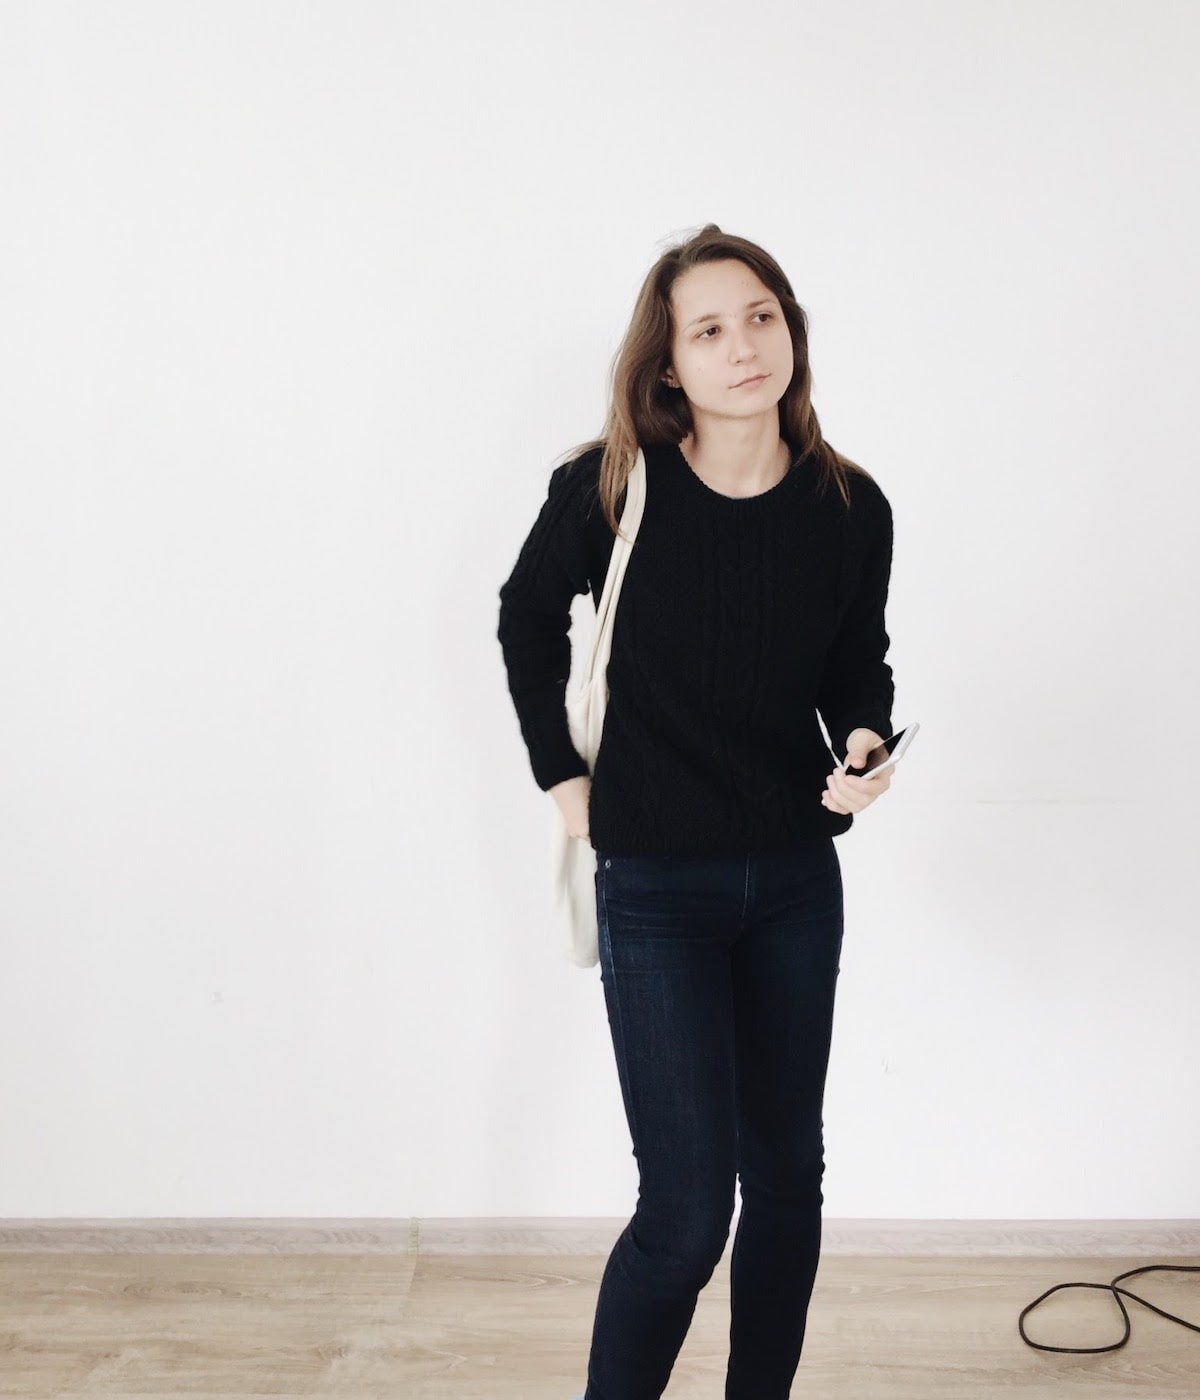
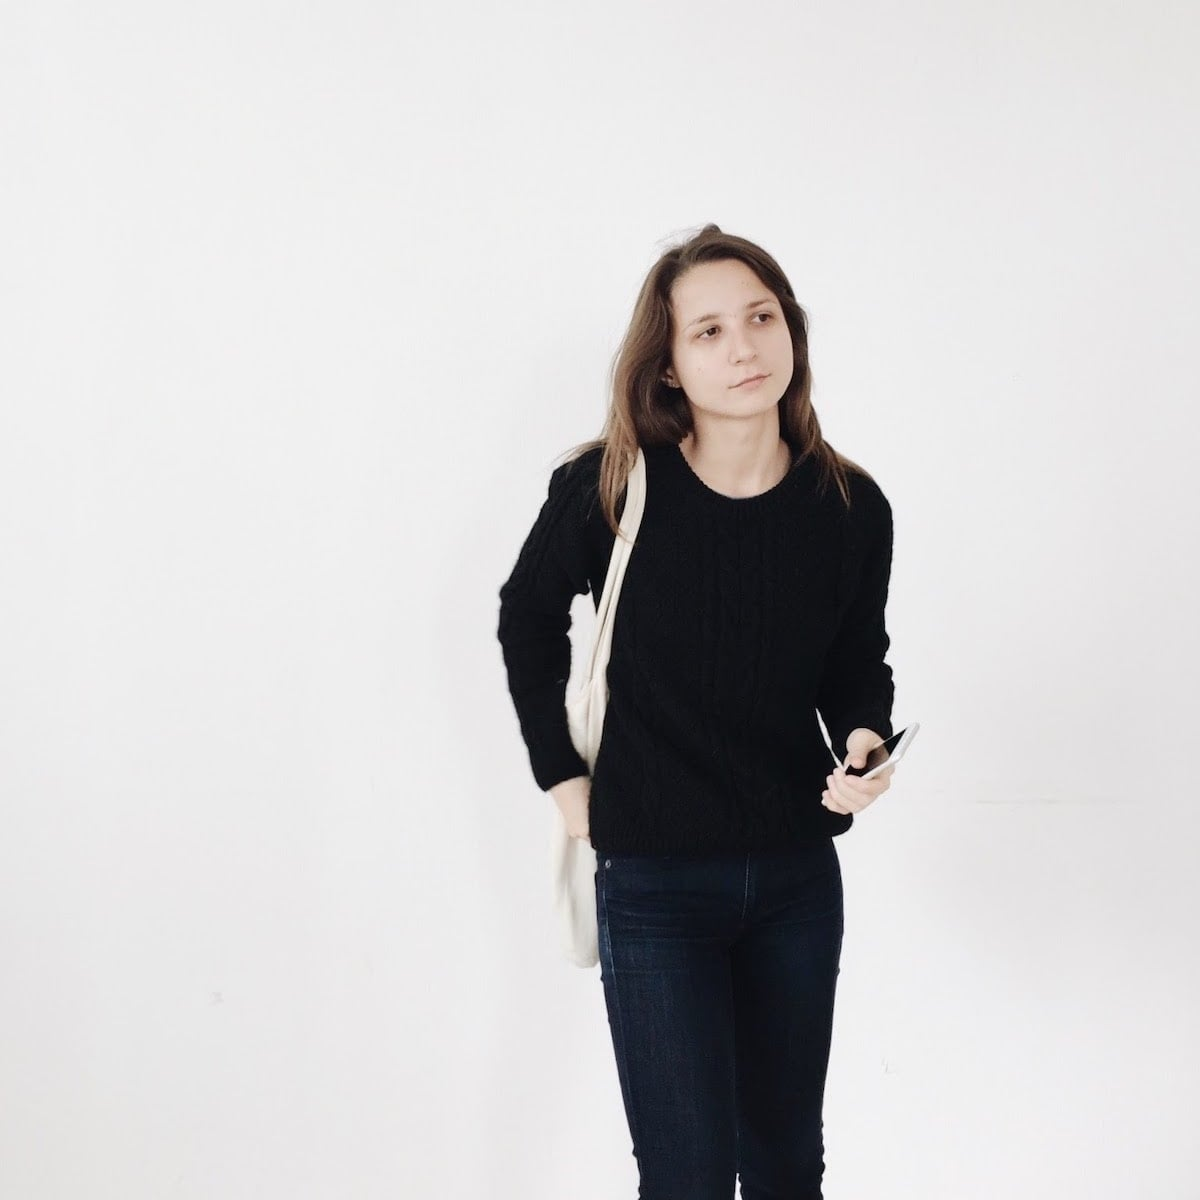
Responsive Image

Changed region(s): [[0.0, 0.1542, 0.7708, 1.0], [0.6475, 0.4317, 1.0, 1.0]]

diff --git a/index.html b/index.html
@@ -11,10 +11,6 @@
 </head>
 <body>
 
-  <div class="bg">
-    <img src="public/back.jpg" alt="">
-  </div>
-
   <p class="column">
   Ксения Ильиных<br>
   Продуктовый дизайнер<br><br>
@@ -22,14 +18,10 @@
 
   Умею разбираться в&nbsp;сложных вещах и&nbsp;объяснять их простым языком. Работаю <a href="https://kontur.ru/" target="_blank">в&nbsp;Контуре</a> и&nbsp;помогаю делать продукты красивыми и&nbsp;удобными.
   <br><br>
-  Люблю делать полезные штуки: <br>
-  — &laquo;<a href="https://medium.com/designkontur/%D0%BC%D0%B5%D1%81%D1%8F%D1%86-%D0%BE%D1%81%D0%BE%D0%B7%D0%BD%D0%B0%D0%BD%D0%BD%D0%BE%D1%81%D1%82%D0%B8-2f343d25837b" target="_blank">Месяц осознанности</a>&raquo; — рассылка, которая помогает быть осознанней <br>
-  — &laquo;<a href="">Этикет встреч</a>&raquo;
+  Сделала &laquo;<a href="https://kseniailinyh.github.io/awesome-meetings-kontur/" target="_blank">Этикет встреч</a>&raquo; и&nbsp;рассылку &laquo;<a href="https://medium.com/designkontur/%D0%BC%D0%B5%D1%81%D1%8F%D1%86-%D0%BE%D1%81%D0%BE%D0%B7%D0%BD%D0%B0%D0%BD%D0%BD%D0%BE%D1%81%D1%82%D0%B8-2f343d25837b" target="_blank">Месяц&nbsp;осознанности</a>&raquo;.
 
-
-  сделала с&nbsp;друзьями рассылку &laquo;<a href="https://medium.com/designkontur/%D0%BC%D0%B5%D1%81%D1%8F%D1%86-%D0%BE%D1%81%D0%BE%D0%B7%D0%BD%D0%B0%D0%BD%D0%BD%D0%BE%D1%81%D1%82%D0%B8-2f343d25837b" target="_blank">Месяц осознанности</a>&raquo; и&nbsp;«<a href="">Этикет встреч</a>».
   <br><br>
-  Иногда пишу про работу:
+  Пишу про работу:
   <br>
   — <a href="https://medium.com/designkontur/%D0%BE%D0%BF%D0%B8%D1%81%D0%B0%D1%82%D1%8C-%D0%B7%D0%B0%D0%B4%D0%B0%D1%87%D1%83-%D0%B2-%D0%B2%D0%B8%D0%B4%D0%B5-%D0%B8%D1%81%D1%82%D0%BE%D1%80%D0%B8%D0%B8-ca1f1d676536" target="_blank">Описать задачу в виде истории</a><br>
   — <a href="https://medium.com/designkontur/%D0%BA%D0%B0%D0%BA-%D1%8F-%D0%B4%D0%B5%D0%BB%D0%B0%D0%BB%D0%B0-%D0%BE%D0%B1%D0%BB%D0%BE%D0%B6%D0%BA%D1%83-eb8d787f2c62" target="_blank">Как я делала обложку</a>
@@ -38,7 +30,16 @@
   <br>
   — <a href="https://medium.com/designkontur/%D0%BA%D0%B0%D0%BA-%D0%B0%D0%BD%D0%B8%D0%BC%D0%B0%D1%86%D0%B8%D1%8F-%D0%BC%D0%BE%D0%B6%D0%B5%D1%82-%D0%BF%D0%BE%D0%BC%D0%BE%D1%87%D1%8C-%D0%B2-%D0%BD%D0%B5%D0%BF%D0%BE%D0%BF%D1%83%D0%BB%D1%8F%D1%80%D0%BD%D0%BE%D0%B9-%D1%84%D0%B8%D1%87%D0%B5-8ca2048ce13e" target="_blank">Как анимация может помочь</a>
   <br><br>
+
+  И рассказываю: <br>
+  — <a href="https://www.youtube.com/watch?v=yoMbmE35Vw4" target="_blank">Чем занимаются дизайнеры интерфейсов</a><br>
+  — <a href="https://www.youtube.com/watch?v=t_zKEjuiins">Про авантюрное тестирование</a>
+
   </p>
+
+  <div class="bg">
+    <img src="public/back.jpg" alt="">
+  </div>
 
 
 </body>

diff --git a/public/style.css b/public/style.css
@@ -40,8 +40,10 @@ a:hover {
     font-size: 15px;
   }
 
-  .bg {
-    background: #f5f5f5 none;
+  .bg img {
+    position: relative;
+    width: 90%;
+    margin: 4vw 5vw;    
   }
 
   .column {
